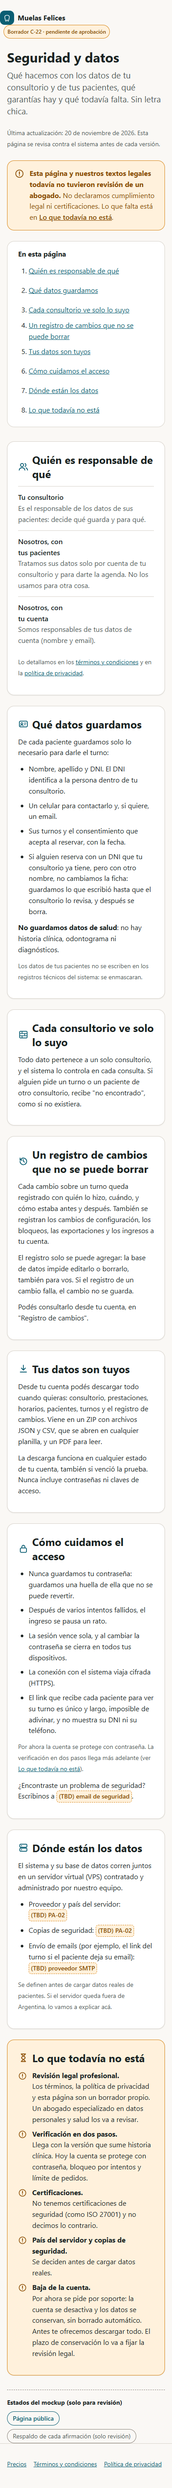
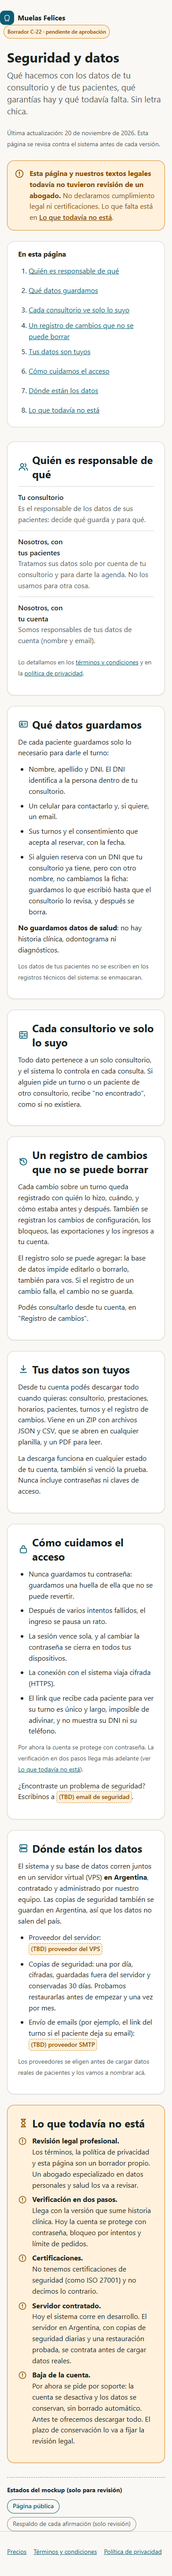
docs(seguridad): ajustes de la revisión de la propuesta con DD-40 (C-22)
- "Dónde están los datos": servidor y backups en Argentina con la
  política de DD-40; quedan (TBD) el proveedor del VPS, el SMTP y el
  email de seguridad.
- Respaldo, proposal, design, spec y tareas citan DD-40 en vez de PA-02;
  tarea 1.3 cerrada (sin preguntas Alta abiertas).
- 08_arquitectura_propuesta §Seguridad: DD-40 en vez de PA-02.
- CHANGES.md §C-23: npm run seguridad:revisar en el criterio de salida.
- Capturas del mockup renderizadas de nuevo.

diff --git a/openspec/changes/pagina-seguridad/mockups/seguridad.html b/openspec/changes/pagina-seguridad/mockups/seguridad.html
@@ -113,19 +113,19 @@
     </ul>
     <p class="nota">Por ahora la cuenta se protege con contraseña. La verificación en dos pasos llega más adelante (ver <a href="#falta">Lo que todavía no está</a>).</p>
     <p>¿Encontraste un problema de seguridad? Escribinos a <span class="tbd">(TBD) email de seguridad</span>.</p>
-    <div class="respaldo" data-solo="respaldo"><b>Respaldo</b><ul><li>Email de seguridad: decidido por Maxi en #40, se define junto con el dominio (DD-34) y <strong>bloquea la publicación</strong> como PA-02.</li><li>BCrypt (hash, no cifrado reversible), bloqueo por intentos y rate limit (C-04, C-05, RN-AU-*, <code>08_arquitectura_propuesta.md</code> §Seguridad).</li><li>Sesión de 15 min con refresh rotado; cierre en todos los dispositivos al cambiar la contraseña (C-04, C-05, RN-AU-05).</li><li>HSTS y TLS fuera de local (C-04, <code>CabecerasDeSeguridadTest</code>). Hay que confirmar TLS en el VPS antes de publicar.</li><li>Token de 256 bits guardado como hash y vista sin DNI ni teléfono (C-15, C-16).</li></ul></div>
+    <div class="respaldo" data-solo="respaldo"><b>Respaldo</b><ul><li>Email de seguridad: decidido por Maxi en #40, se define junto con el dominio (DD-34) y <strong>bloquea la publicación</strong> (criterio de salida de C-23, DD-40).</li><li>BCrypt (hash, no cifrado reversible), bloqueo por intentos y rate limit (C-04, C-05, RN-AU-*, <code>08_arquitectura_propuesta.md</code> §Seguridad).</li><li>Sesión de 15 min con refresh rotado; cierre en todos los dispositivos al cambiar la contraseña (C-04, C-05, RN-AU-05).</li><li>HSTS y TLS fuera de local (C-04, <code>CabecerasDeSeguridadTest</code>). Hay que confirmar TLS en el VPS antes de publicar.</li><li>Token de 256 bits guardado como hash y vista sin DNI ni teléfono (C-15, C-16).</li></ul></div>
   </section>
 
   <section class="seccion" id="hosting" aria-labelledby="host-t">
     <h2 id="host-t"><svg aria-hidden="true"><use href="#i-server"/></svg>Dónde están los datos</h2>
-    <p>El sistema y su base de datos corren juntos en un servidor virtual (VPS) contratado y administrado por nuestro equipo.</p>
+    <p>El sistema y su base de datos corren juntos en un servidor virtual (VPS) <strong>en Argentina</strong>, contratado y administrado por nuestro equipo. Las copias de seguridad también se guardan en Argentina, así que los datos no salen del país.</p>
     <ul>
-      <li>Proveedor y país del servidor: <span class="tbd">(TBD) PA-02</span></li>
-      <li>Copias de seguridad: <span class="tbd">(TBD) PA-02</span></li>
+      <li>Proveedor del servidor: <span class="tbd">(TBD) proveedor del VPS</span></li>
+      <li>Copias de seguridad: una por día, cifradas, guardadas fuera del servidor y conservadas 30 días. Probamos restaurarlas antes de empezar y una vez por mes.</li>
       <li>Envío de emails (por ejemplo, el link del turno si el paciente deja su email): <span class="tbd">(TBD) proveedor SMTP</span></li>
     </ul>
-    <p class="nota">Se definen antes de cargar datos reales de pacientes. Si el servidor queda fuera de Argentina, lo vamos a explicar acá.</p>
-    <div class="respaldo" data-solo="respaldo"><b>Respaldo</b><ul><li>Docker Compose con Postgres en un VPS (DD-25). País y backups abiertos (PA-02, LG-09): <strong>bloquea la publicación</strong> hasta resolverse.</li><li>Proveedor SMTP en producción (DD-15, ligado a PA-02): recibe el email del paciente cuando lo deja (DD-26), así que se nombra acá como proveedor que trata datos.</li></ul></div>
+    <p class="nota">Los proveedores se eligen antes de cargar datos reales de pacientes y los vamos a nombrar acá.</p>
+    <div class="respaldo" data-solo="respaldo"><b>Respaldo</b><ul><li>Docker Compose con Postgres en un VPS (DD-25), en Argentina con los backups (DD-40, LG-09): sin transferencia internacional.</li><li>Política de backups de DD-40: diario, cifrado, fuera del VPS, retención de 30 días y restauración de prueba antes del lanzamiento y mensual.</li><li>Proveedor del VPS y proveedor SMTP (DD-15, DD-26): criterio de salida de C-23 (DD-40), <strong>bloquean la publicación</strong> hasta elegirse.</li></ul></div>
   </section>
 
   <section class="seccion falta" id="falta" aria-labelledby="falta-t">
@@ -134,10 +134,10 @@
       <li><svg aria-hidden="true"><use href="#i-alert"/></svg><span><strong>Revisión legal profesional.</strong> Los términos, la política de privacidad y esta página son un borrador propio. Un abogado especializado en datos personales y salud los va a revisar.</span></li>
       <li><svg aria-hidden="true"><use href="#i-alert"/></svg><span><strong>Verificación en dos pasos.</strong> Llega con la versión que sume historia clínica. Hoy la cuenta se protege con contraseña, bloqueo por intentos y límite de pedidos.</span></li>
       <li><svg aria-hidden="true"><use href="#i-alert"/></svg><span><strong>Certificaciones.</strong> No tenemos certificaciones de seguridad (como ISO 27001) y no decimos lo contrario.</span></li>
-      <li><svg aria-hidden="true"><use href="#i-alert"/></svg><span><strong>País del servidor y copias de seguridad.</strong> Se deciden antes de cargar datos reales.</span></li>
+      <li><svg aria-hidden="true"><use href="#i-alert"/></svg><span><strong>Servidor contratado.</strong> Hoy el sistema corre en desarrollo. El servidor en Argentina, con copias de seguridad diarias y una restauración probada, se contrata antes de cargar datos reales.</span></li>
       <li><svg aria-hidden="true"><use href="#i-alert"/></svg><span><strong>Baja de la cuenta.</strong> Por ahora se pide por soporte: la cuenta se desactiva y los datos se conservan, sin borrado automático. Antes te ofrecemos descargar todo. El plazo de conservación lo va a fijar la revisión legal.</span></li>
     </ul>
-    <div class="respaldo" data-solo="respaldo"><b>Respaldo</b><ul><li>Sin revisión legal: DD-28, LG-10. Sin 2FA: DD-18, DD-35. Sin certificaciones: RN-PL-05, LG-10.</li><li>País y backups: PA-02. Baja y conservación: DD-29, LG-08.</li></ul></div>
+    <div class="respaldo" data-solo="respaldo"><b>Respaldo</b><ul><li>Sin revisión legal: DD-28, LG-10. Sin 2FA: DD-18, DD-35. Sin certificaciones: RN-PL-05, LG-10.</li><li>Servidor y backups antes de datos reales: DD-40, criterio de salida de C-23. Baja y conservación: DD-29, LG-08.</li></ul></div>
   </section>
 
   <section class="review" aria-labelledby="rev-t">

diff --git a/openspec/changes/pagina-seguridad/proposal.md b/openspec/changes/pagina-seguridad/proposal.md
@@ -2,7 +2,7 @@
 
 > Change **C-22** de [CHANGES.md](../../../CHANGES.md) · Governance **ALTO** (afirmaciones públicas sobre datos de salud) · Depende de `C-03` (`auditoria-base`, `[x]`), `C-06` (`frontend-shell-pwa`, `[x]`) y `C-19` (`exportacion-datos`) · Responsable: Octi · Aprobación: Maxi.
 >
-> Es trabajo anticipado. El mockup ya está aprobado (#40, versión `1609d16`) y la propuesta de C-19 está en `main` (#32). El código se escribe recién cuando C-19 esté `[x]`. La página **no se publica** hasta resolver PA-02 (proveedor, país y backups del VPS), el proveedor SMTP, el email de seguridad y el TLS del VPS.
+> Es trabajo anticipado. El mockup ya está aprobado (#40, versión `1609d16`) y la propuesta de C-19 está en `main` (#32). El código se escribe recién cuando C-19 esté `[x]`. La página **no se publica** hasta cumplir el criterio de salida de C-23 (DD-40): proveedor del VPS en Argentina, backups con una restauración probada, TLS, proveedor SMTP declarado y email de seguridad.
 
 ## Why
 
@@ -18,7 +18,7 @@ La transparencia es el diferenciador de la v1, y para un odontólogo la primera 
 
 **Fuera de alcance**:
 - Los textos de términos y privacidad (`docs/legal/`, DD-28) y su revisión por un abogado.
-- Resolver PA-02, elegir el proveedor SMTP o definir el email de seguridad: la página los muestra como `(TBD)` y no se publica hasta tenerlos.
+- Contratar el VPS, elegir el proveedor SMTP o definir el email de seguridad: la página los muestra como `(TBD)` y no se publica hasta tenerlos (criterio de salida de C-23, DD-40).
 - La verificación en dos pasos (DD-35), que la página declara como faltante.
 
 ## Capabilities
@@ -34,11 +34,12 @@ La transparencia es el diferenciador de la v1, y para un odontólogo la primera 
 ## Impact
 
 - **Código**: `frontend/src/contenido/seguridad.json`, `frontend/src/features/seguridad/**`, la página en `frontend/src/pages/`, la tabla de `frontend/src/publico.ts` y el script `frontend/scripts/seguridad-revisar.mjs`. Sin cambios en `backend/`.
+- **Documentación en este PR**: `08_arquitectura_propuesta.md` §Seguridad cita DD-40 en vez de PA-02, y `CHANGES.md` §C-23 suma `npm run seguridad:revisar` a su criterio de salida.
 - **Dependencias**: ninguna nueva.
 - **Coordinación**:
   - **C-19 (Mati)**: "Tus datos son tuyos" describe la exportación tal como la define C-19 (ZIP con JSON, CSV y PDF, sin secretos, también con plan `VENCIDO`). Si cambia al implementar, se actualiza la fuente.
   - **C-18 (Mati)**: "Podés consultarlo desde tu cuenta" depende de C-18; si no está `[x]` al publicar, el comando de revisión lo marca y la frase se saca.
   - **C-15 y C-16**: la frase del link del paciente depende de los dos.
-  - **C-23 (Maxi)**: suma `npm run seguridad:revisar` a la checklist de release.
-- **Bloqueos de publicación** (no de implementación): PA-02, proveedor SMTP, email de seguridad (con el dominio, DD-34) y TLS del VPS.
-- **Preguntas abiertas**: toca PA-02 (Alta, acotada por DD-25). La propuesta es implementar la página con `(TBD)` en el proveedor, el país y los backups, y bloquear solo su **publicación** hasta resolverla (el comando de revisión falla con marcadores `(TBD)`). **Pregunta para Maxi**: ¿esto cumple la regla dura 16 o hay que resolver PA-02 antes de escribir el código?
+  - **C-23 (Maxi)**: `npm run seguridad:revisar` queda en su criterio de salida (se suma a §C-23 de CHANGES.md en este PR).
+- **Bloqueos de publicación** (no de implementación): el criterio de salida de C-23 (DD-40), con el proveedor del VPS, los backups con restauración probada, el TLS, el proveedor SMTP y el email de seguridad (con el dominio, DD-34).
+- **Preguntas abiertas**: ninguna Alta. PA-02 quedó cerrada con DD-40 (#42): servidor y backups en Argentina. Lo que falta son datos para publicar, no decisiones, así que se puede implementar (regla dura 16, confirmado por Maxi en #44).

diff --git a/openspec/changes/pagina-seguridad/design.md b/openspec/changes/pagina-seguridad/design.md
@@ -18,7 +18,7 @@
 
 - Un CMS o una API para editar el contenido en caliente.
 - Traducir la página (la v1 es solo es-AR).
-- Resolver PA-02 o los otros bloqueos de publicación.
+- Contratar el VPS o resolver los otros datos que faltan para publicar (criterio de salida de C-23, DD-40).
 
 ## Decisions
 
@@ -44,13 +44,13 @@ La página importa el JSON y arma el DOM con los helpers de C-06. No hay pedido 
 - alguna afirmación no tiene respaldo;
 - la fuente tiene marcadores `(TBD)`.
 
-Lista cada problema con la afirmación y el motivo. Es un script aparte y no un test de CI porque, mientras PA-02 siga abierta, fallaría siempre y bloquearía cualquier PR. Lo corre la checklist de release de C-23 antes de publicar.
+Lista cada problema con la afirmación y el motivo. Es un script aparte y no un test de CI porque, mientras falten el proveedor del VPS, el SMTP y el email de seguridad, fallaría siempre y bloquearía cualquier PR. Está en el criterio de salida de C-23 (`CHANGES.md` §C-23), que se corre antes de publicar.
 
 - **Alternativa descartada**: un test que falle en CI. Frenaría el trabajo de todo el equipo por un bloqueo que solo importa al publicar.
 
 ### D4 — Los tests de la página validan la fuente y las frases prohibidas
 
-Los tests Vitest verifican que la página muestra la fecha y "Lo que todavía no está", que su texto coincide con la fuente, que cada afirmación tiene respaldo (este sí corre en CI: no depende de PA-02) y que no aparecen frases prohibidas (certificaciones, cumplimiento legal, "100 % seguro", "contraseña cifrada").
+Los tests Vitest verifican que la página muestra la fecha y "Lo que todavía no está", que su texto coincide con la fuente, que cada afirmación tiene respaldo (este sí corre en CI: no depende de los datos que faltan para publicar) y que no aparecen frases prohibidas (certificaciones, cumplimiento legal, "100 % seguro", "contraseña cifrada").
 
 ### D5 — Ruta pública y marcadores visibles
 
@@ -60,16 +60,16 @@ Los tests Vitest verifican que la página muestra la fecha y "Lo que todavía no
 
 - **[Una afirmación queda vieja después de un cambio de código]** → el campo `requiere` y el script de D3 solo detectan changes sin terminar, no regresiones. Mitigación: la checklist de release pide revisar el respaldo de cada frase contra el código, como exige RN-PL-06.
 - **[Se publica con `(TBD)`]** → el script de D3 falla y la página muestra los marcadores a la vista.
-- **[Regla dura 16 y PA-02]** → se implementa con `(TBD)` y se bloquea solo la publicación; queda como pregunta para Maxi en el proposal.
+- **[Regla dura 16]** → resuelta: PA-02 cerró con DD-40 (#42) y no queda ninguna pregunta Alta. Los `(TBD)` son datos para publicar, no decisiones (confirmado por Maxi en #44).
 - **[Divergencia con C-19]** → si la exportación cambia al implementarse, la frase de "Tus datos son tuyos" se actualiza en la fuente; su `requiere` incluye C-19.
 
 ## Migration Plan
 
-Sin migración. Se despliega cuando C-19 esté `[x]`, pero la página se publica recién cuando `npm run seguridad:revisar` pase: PA-02 resuelta, proveedor SMTP elegido, email de seguridad definido y TLS confirmado en el VPS.
+Sin migración. Se despliega cuando C-19 esté `[x]`, pero la página se publica recién cuando `npm run seguridad:revisar` pase y se cumpla el criterio de salida de C-23 (DD-40): VPS en Argentina contratado, backups con una restauración probada, TLS, proveedor SMTP declarado y email de seguridad definido.
 
 ## Open Questions
 
-- ¿Implementar con `(TBD)` cumple la regla dura 16, o hay que resolver PA-02 antes de escribir el código? (ver proposal).
+- Ninguna. La pregunta sobre la regla dura 16 la resolvió DD-40 (#42), confirmado por Maxi en la revisión de #44.
 
 ## UI Mockups
 

diff --git a/openspec/changes/pagina-seguridad/tasks.md b/openspec/changes/pagina-seguridad/tasks.md
@@ -6,11 +6,11 @@
 
 - [x] 1.1 Obtener la aprobación de Maxi para el mockup de `/seguridad`; verificar `Approval: approved` en `design.md` y en `mockups/README.md` (#40, versión `1609d16`)
 - [ ] 1.2 Confirmar que C-19 está mergeado y `[x]` en `CHANGES.md` (C-03 y C-06 ya lo están); verificar con `git log origin/main --oneline`
-- [ ] 1.3 Registrar la respuesta de Maxi sobre la regla dura 16 y PA-02 (implementar con `(TBD)` o resolver antes); verificar que quedó en `design.md` §Open Questions o como DD
+- [x] 1.3 Confirmar que no queda ninguna pregunta Alta abierta: PA-02 cerró con DD-40 (#42) y Maxi lo confirmó en la revisión de #44; verificar `design.md` §Open Questions
 
 ## 2. Fuente versionada
 
-- [ ] 2.1 Crear `frontend/src/contenido/seguridad.json` con el contenido aprobado del mockup (versión `1609d16`), el respaldo y `requiere` de cada afirmación (D1); verificar con un test Vitest que el type guard lo acepta y rechaza una afirmación sin `texto`
+- [ ] 2.1 Crear `frontend/src/contenido/seguridad.json` con el contenido aprobado del mockup (versión `1609d16`, con el texto de hosting actualizado por DD-40 en #44), el respaldo y `requiere` de cada afirmación (D1); verificar con un test Vitest que el type guard lo acepta y rechaza una afirmación sin `texto`
 - [ ] 2.2 Escribir el test de que cada afirmación declara respaldo y de que la fuente no tiene frases prohibidas (D4); verificar que falla con una afirmación sin respaldo y con "certificado" agregados a propósito, y pasa con la fuente real
 
 ## 3. Página
@@ -22,15 +22,15 @@
 ## 4. Revisión antes de publicar
 
 - [ ] 4.1 Implementar `npm run seguridad:revisar` (D3): falla si una afirmación requiere un change sin `[x]`, si no tiene respaldo o si hay `(TBD)`, y lista cada problema; verificar con tests del script usando un `CHANGES.md` y una fuente de prueba para cada caso
-- [ ] 4.2 Documentar el comando en el README del frontend y pedir a C-23 que lo sume a la checklist de release; verificar el texto en el README y el pedido en el PR
+- [ ] 4.2 Documentar el comando en el README del frontend; verificar el texto en el README y que `CHANGES.md` §C-23 lo incluye en su criterio de salida
 
 ## 5. Verificación integrada
 
 - [ ] 5.1 Recorrer `/seguridad` contra el mockup aprobado (versión `1609d16`) a 360, 390 y 1440 px; guardar capturas en `mockups/verify/` y verificar sin scroll horizontal, objetivos de al menos 44 px, foco visible y sin errores de consola
 - [ ] 5.2 Revisar cada afirmación de la fuente contra el código mergeado (RN-PL-06) y dejar la tabla afirmación → respaldo → evidencia en el PR
-- [ ] 5.3 Pasar `npm run typecheck`, `npm run lint`, `npm test` y `npm run build`, correr `npm run seguridad:revisar` (se espera que falle por los `(TBD)` hasta resolver PA-02) y abrir el PR con commits conventional en español que referencien `(C-22)`; verificar el PR listo para revisión de Maxi
+- [ ] 5.3 Pasar `npm run typecheck`, `npm run lint`, `npm test` y `npm run build`, correr `npm run seguridad:revisar` (se espera que falle por los `(TBD)` hasta cumplir el criterio de salida de C-23) y abrir el PR con commits conventional en español que referencien `(C-22)`; verificar el PR listo para revisión de Maxi
 
 ## Workflow follow-up
 
 - Cuando Maxi apruebe el PR, el autor suma en el mismo PR el commit de cierre: `[x]` en `CHANGES.md` y `openspec archive pagina-seguridad` (CLAUDE.md, ciclo del PR).
-- La publicación de `/seguridad` espera a que `npm run seguridad:revisar` pase (PA-02, proveedor SMTP, email de seguridad y TLS del VPS).
+- La publicación de `/seguridad` espera a que `npm run seguridad:revisar` pase y se cumpla el criterio de salida de C-23 (DD-40).

diff --git a/openspec/changes/pagina-seguridad/mockups/README.md b/openspec/changes/pagina-seguridad/mockups/README.md
@@ -38,7 +38,7 @@ Maxi aprobó las seis decisiones en la revisión de #40 (2026-11-20).
 
 ## Bloqueos para publicar
 
-- **PA-02 bloquea la publicación**: el proveedor y país del VPS, los backups y el proveedor SMTP aparecen como `(TBD)`. La página no puede publicarse con esos marcadores; se completan cuando se decida PA-02 (antes de cargar pacientes reales, DD-25).
+- **Criterio de salida de C-23 (DD-40)**: el país ya está decidido (servidor y backups en Argentina, con la política de backups de DD-40). Quedan como `(TBD)` el proveedor del VPS y el proveedor SMTP. La página no se publica con esos marcadores. *Texto actualizado en la revisión de la propuesta (#44), a pedido de Maxi, sobre la versión aprobada `1609d16`.*
 - **TLS en el VPS**: "la conexión viaja cifrada (HTTPS)" vale cuando el VPS tenga TLS configurado. Hay que confirmarlo antes de publicar.
 - **Email de seguridad** (decidido por Maxi en #40): va en "Cómo cuidamos el acceso" como `(TBD)`. Se define junto con el dominio (DD-34) y bloquea la publicación igual que PA-02.
 
@@ -58,6 +58,6 @@ Abrí `seguridad.html` directo en el navegador (funciona con `file://`) y usá l
 - [ ] "Lo que todavía no está" es completa: revisión legal, 2FA, certificaciones, país y backups, baja de la cuenta.
 - [ ] Ninguna frase declara cumplimiento legal ni certificaciones (RN-PL-05, LG-10).
 - [ ] Fuente versionada compilada con la página (decisión 1).
-- [ ] Bloqueos: PA-02, TLS en el VPS y email de seguridad.
+- [ ] Bloqueos (criterio de salida de C-23, DD-40): proveedor del VPS, proveedor SMTP, TLS y email de seguridad.
 - [ ] Ajustes de #40: huella en vez de "versión cifrada", DD-38 en "Qué datos guardamos", email de seguridad `(TBD)` y 08 corregido.
 - [ ] Textos en es-AR con voseo; solo tokens rev. 1; foco visible; objetivos ≥ 44 px; estados con ícono y texto.

diff --git a/knowledge-base/08_arquitectura_propuesta.md b/knowledge-base/08_arquitectura_propuesta.md
@@ -87,10 +87,10 @@ servicios de `application` públicos o por eventos de dominio (`auditoria` escuc
   `Referrer-Policy: no-referrer` (el token viaja en la URL de `/t/{token}`; evita filtrarlo por Referer).
 - **CORS**: solo el origen del frontend (`APP_FRONTEND_ORIGIN`).
 - **Secrets management**: variables de entorno vía `.env` (no versionado; se versiona `.env.example`).
-  En cloud, el gestor de secretos del proveedor elegido ([PA-02](10_preguntas_abiertas.md)).
+  En producción, el VPS en Argentina de [DD-40](09_decisiones_y_supuestos.md).
 - **Datos sensibles** ([11](11_marco_legal_argentino.md)): minimización (sin datos clínicos en v1; el
   DNI se guarda porque identifica al paciente, [DD-24](09_decisiones_y_supuestos.md)), enmascarado de PII en logs, TLS en tránsito fuera de local, cifrado en reposo delegado al
-  Postgres como contenedor del mismo Compose en un VPS ([DD-25](09_decisiones_y_supuestos.md)); país del VPS y backups pendientes ([PA-02](10_preguntas_abiertas.md)).
+  Postgres como contenedor del mismo Compose en un VPS ([DD-25](09_decisiones_y_supuestos.md)); VPS y backups en Argentina, con backup diario cifrado, retención de 30 días y restauraciones de prueba ([DD-40](09_decisiones_y_supuestos.md)).
 
 ## Persistencia y migraciones
 

diff --git a/openspec/changes/pagina-seguridad/specs/pagina-seguridad/spec.md b/openspec/changes/pagina-seguridad/specs/pagina-seguridad/spec.md
@@ -63,7 +63,7 @@ Cada afirmación de la fuente MUST declarar su respaldo (regla, decisión, chang
 
 ### Requirement: Revisión antes de publicar
 
-Antes de publicar una versión, una revisión automática MUST fallar si alguna afirmación depende de un change que no está completado en `CHANGES.md`, si alguna no tiene respaldo o si la fuente tiene marcadores `(TBD)` (proveedor y país del servidor, copias de seguridad, proveedor de email, email de seguridad). Mientras falle, la página MUST NOT publicarse.
+Antes de publicar una versión, una revisión automática MUST fallar si alguna afirmación depende de un change que no está completado en `CHANGES.md`, si alguna no tiene respaldo o si la fuente tiene marcadores `(TBD)` (proveedor del servidor, proveedor de email, email de seguridad). Mientras falle, la página MUST NOT publicarse.
 
 #### Scenario: Depende de un change sin terminar
 
@@ -73,7 +73,7 @@ Antes de publicar una versión, una revisión automática MUST fallar si alguna 
 
 #### Scenario: Quedan marcadores pendientes
 
-- **GIVEN** el país del servidor todavía figura como `(TBD)`
+- **GIVEN** el proveedor del servidor todavía figura como `(TBD)`
 - **WHEN** se corre la revisión
 - **THEN** falla y lista los marcadores pendientes
 

diff --git a/CHANGES.md b/CHANGES.md
@@ -542,7 +542,8 @@ Reglas de coordinación del paralelismo:
     - backup diario cifrado de Postgres en Argentina, retención de 30 días y una restauración de prueba hecha;
     - TLS activo en el dominio de producción;
     - proveedor SMTP elegido y declarado en la política de privacidad;
-    - email de seguridad de `/seguridad` definido.
+    - email de seguridad de `/seguridad` definido;
+    - `npm run seguridad:revisar` pasa: ninguna afirmación de `/seguridad` depende de un change sin `[x]`, todas tienen respaldo y no quedan `(TBD)` (C-22, RN-PL-06).
   - Checklist de despliegue, IP real detrás del reverse proxy (viene de C-05): el rate limit por IP usa `getRemoteAddr()`, y detrás del proxy del VPS todos los consultorios compartirían un mismo cupo (10 logins por minuto y 5 registros por hora). Configurar `server.forward-headers-strategy` (`native` o `framework`, según el proxy) y un proxy que **reemplace** `X-Forwarded-For` en vez de concatenarlo, y verificar con un test de humo que dos IPs distintas tengan cupos separados. Detalle en `backend/README.md`.
 - **Dependencias**: `C-14`, `C-16`, `C-17`, `C-18`, `C-19`, `C-20`, `C-21`, `C-22`
 - **Governance**: MEDIO
